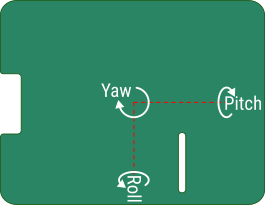
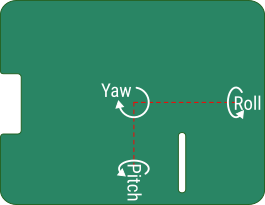
Get pitch and roll the right way round
Easier said than done!

Changed region(s): [[0.4226, 0.761, 0.5736, 0.9951], [0.8151, 0.4098, 0.9962, 0.5854]]

diff --git a/sense_emu/gui.py b/sense_emu/gui.py
@@ -341,8 +341,8 @@ class MainWindow(Gtk.ApplicationWindow):
         self.ui.pitch_scale.add_mark(0, Gtk.PositionType.BOTTOM, None)
         self.ui.roll_scale.add_mark(0, Gtk.PositionType.BOTTOM, None)
         self.ui.yaw_scale.add_mark(0, Gtk.PositionType.BOTTOM, None)
-        self.ui.pitch.props.value = self.props.application.imu.orientation[0]
-        self.ui.roll.props.value = self.props.application.imu.orientation[1]
+        self.ui.roll.props.value = self.props.application.imu.orientation[0]
+        self.ui.pitch.props.value = self.props.application.imu.orientation[1]
         self.ui.yaw.props.value = self.props.application.imu.orientation[2]
         self.ui.humidity.props.value = self.props.application.humidity.humidity
         self.ui.pressure.props.value = self.props.application.pressure.pressure
@@ -447,8 +447,8 @@ class MainWindow(Gtk.ApplicationWindow):
     def orientation_changed(self, adjustment):
         if not self._play_thread:
             self.props.application.imu.set_orientation((
-                self.ui.pitch.props.value,
                 self.ui.roll.props.value,
+                self.ui.pitch.props.value,
                 self.ui.yaw.props.value,
                 ))
 

diff --git a/sense_emu/imu.py b/sense_emu/imu.py
@@ -270,12 +270,12 @@ class IMUServer(object):
             # Construct a rotation matrix for the orientation; see
             # https://en.wikipedia.org/wiki/Euler_angles#Rotation_matrix
             x, y, z = np.deg2rad(new_orientation)
-            c1, c2, c3 = np.cos((z, x, y))
-            s1, s2, s3 = np.sin((z, x, y))
+            c1, c2, c3 = np.cos((z, y, x))
+            s1, s2, s3 = np.sin((z, y, x))
             R = np.array([
-                [c1 * c3 - s1 * s2 * s3, -c2 * s1, c1 * s3 + c3 * s1 * s2],
-                [c3 * s1 + c1 * s2 * s3,  c1 * c2, s1 * s3 - c1 * c3 * s2],
-                [-c2 * s3,                s2,      c2 * c3],
+                [c1 * c2, c1 * s2 * s3 - c3 * s1, s1 * s3 + c1 * c3 * s2],
+                [c2 * s1, c1 * c3 + s1 * s2 * s3, c3 * s1 * s2 - c1 * s3],
+                [-s2,     c2 * s3,                c2 * c3],
                 ])
             self._accel = R.T.dot(self._gravity) # transpose for passive rotation
             # XXX Simulate acceleration from position
